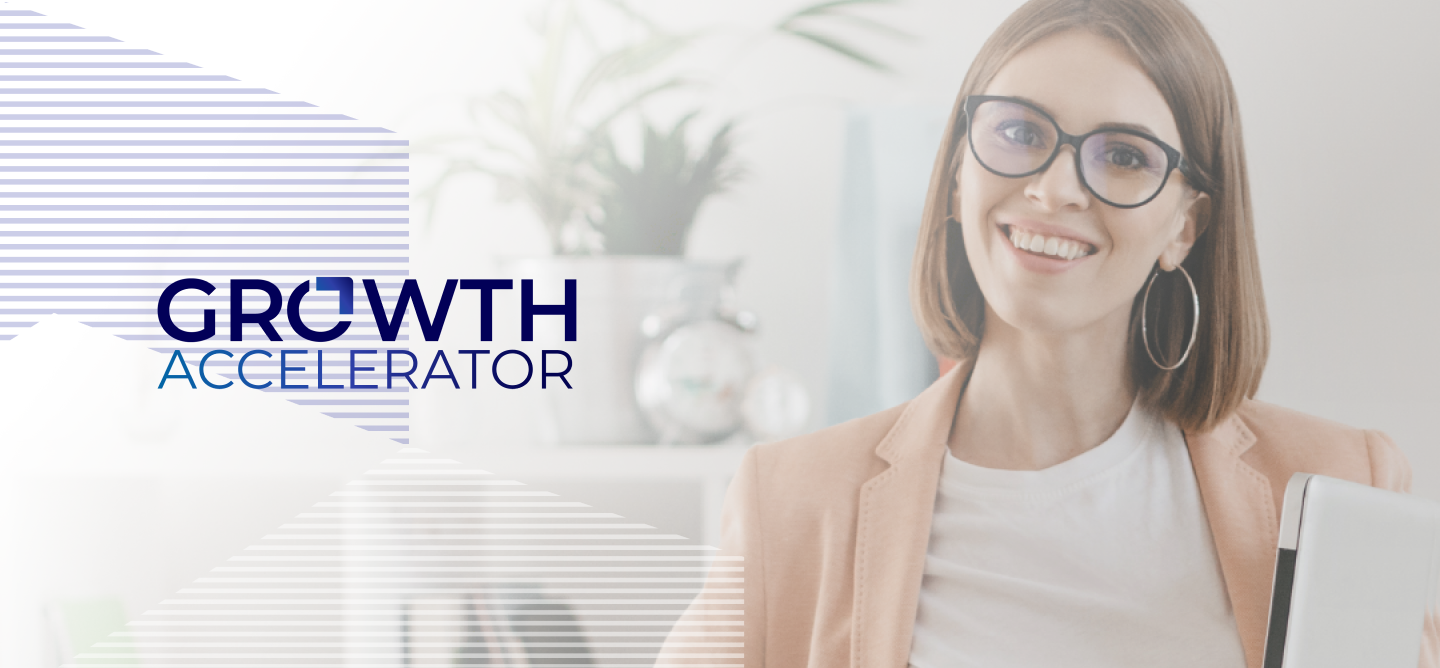
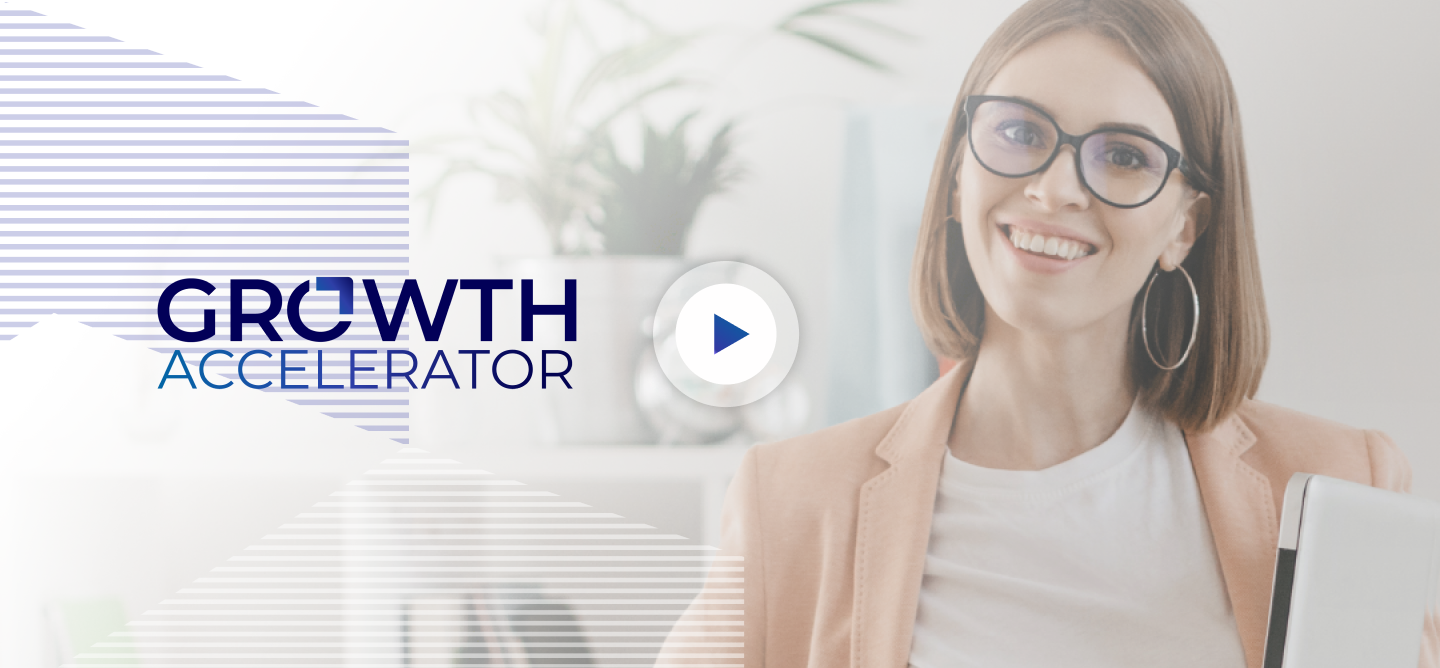
fix: adjust desing and components for courses sections

Changed region(s): [[0.4688, 0.4192, 0.5625, 0.5988]]

diff --git a/src/pages/MasterCoursePage/MasterCoursePage.tsx b/src/pages/MasterCoursePage/MasterCoursePage.tsx
@@ -3,13 +3,13 @@ import Header from '../../components/Header/Header';
 import Footer from '../../components/Footer/Footer';
 import WhatsappSupport from '../../components/WhatsappSupport/WhatsappSupport';
 import HeroSection from '../../components/HeroSection/HeroSection';
-import GrowthInfoSection from '../../components/GrowhtInfo/GrowthInfo';
 import GrowthOwnerSection from '../../components/GrowthOwnerSection/GrowthOwnerSection';
 import GrowthPathSection from '../../components/GrowthPathSection/GrowthPathSection';
-import { growthbanner, playbutton } from '../../utils/images';
+import { masterbanner, masterresp } from '../../utils/images';
 import { useLocation } from 'react-router-dom';
 import { Course } from '../../types/ApiDto';
 import InvestmentCard from '../../components/InvestmentCard/InvestmentCard';
+import MasterInfoSection from '../../components/MasterInfoSection/MasterInfoSection';
 
 const MasterCoursePage: React.FC = () => {
   const location = useLocation();
@@ -21,8 +21,12 @@ const MasterCoursePage: React.FC = () => {
   return (
     <div>
       <Header />
-      <HeroSection backgroundImage={growthbanner} playButton={playbutton} />
-      <GrowthInfoSection />
+      <HeroSection
+        desktopBackgroundImage={masterbanner}
+        mobileBackgroundImage={masterresp}
+        altText="Main Banner"
+      />
+      <MasterInfoSection />
       <GrowthOwnerSection />
       <GrowthPathSection />
       <InvestmentCard course={course} />

diff --git a/src/pages/GrowthCoursePage/GrowthCoursePage.tsx b/src/pages/GrowthCoursePage/GrowthCoursePage.tsx
@@ -1,10 +1,10 @@
 import React from 'react';
 import Header from '../../components/Header/Header';
 import Footer from '../../components/Footer/Footer';
-import { growthbanner, playbutton } from '../../utils/images';
+import { growthbanner, growthresp } from '../../utils/images';
 import WhatsappSupport from '../../components/WhatsappSupport/WhatsappSupport';
 import HeroSection from '../../components/HeroSection/HeroSection';
-import GrowthInfoSection from '../../components/GrowhtInfo/GrowthInfo';
+import GrowthInfoSection from '../../components/GrowthInfoSection/GrowthInfoSection';
 import GrowthOwnerSection from '../../components/GrowthOwnerSection/GrowthOwnerSection';
 import GrowthPathSection from '../../components/GrowthPathSection/GrowthPathSection';
 // import InvestmentCard from '../../components/InvestmentCard/InvestmentCard';
@@ -13,7 +13,11 @@ const GrowthCoursePage: React.FC = () => {
   return (
     <div>
       <Header />
-      <HeroSection backgroundImage={growthbanner} playButton={playbutton} />
+      <HeroSection
+        desktopBackgroundImage={growthbanner}
+        mobileBackgroundImage={growthresp}
+        altText="Main Banner"
+      />
       <GrowthInfoSection />
       <GrowthOwnerSection />
       <GrowthPathSection />

diff --git a/src/components/SectionInfo/SectionInfo.tsx b/src/components/SectionInfo/SectionInfo.tsx
@@ -1,0 +1,46 @@
+import React from 'react';
+import InfoCard from '../InfoCard/InfoCard';
+
+interface InfoItem {
+  icon: string;
+  title: string;
+  description: string;
+}
+
+interface InfoSectionProps {
+  title: string;
+  description: string;
+  infoItems: InfoItem[];
+}
+
+const SectionInfo: React.FC<InfoSectionProps> = ({
+  title,
+  description,
+  infoItems,
+}) => {
+  return (
+    <section className="py-24 bg-white">
+      <div className="container mx-auto px-4">
+        <h2 className="text-4xl font-bold text-secondaryPurple mb-4 text-center">
+          {title}
+        </h2>
+        <p
+          className="text-lg text-gray-700 mb-8 text-center py-24"
+          dangerouslySetInnerHTML={{ __html: description }}
+        />
+        <div className="grid grid-cols-1 md:grid-cols-3 gap-12">
+          {infoItems.map((item, index) => (
+            <InfoCard
+              key={index}
+              icon={item.icon}
+              title={item.title}
+              description={item.description}
+            />
+          ))}
+        </div>
+      </div>
+    </section>
+  );
+};
+
+export default SectionInfo;

diff --git a/src/components/HeroSection/HeroSection.tsx b/src/components/HeroSection/HeroSection.tsx
@@ -1,30 +1,28 @@
 import React from 'react';
 
 interface HeroSectionProps {
-  backgroundImage: string;
-  playButton: string;
+  desktopBackgroundImage: string;
+  mobileBackgroundImage: string;
+  altText: string;
 }
 
 const HeroSection: React.FC<HeroSectionProps> = ({
-  backgroundImage,
-  playButton,
+  desktopBackgroundImage,
+  mobileBackgroundImage,
+  altText,
 }) => {
   return (
     <div className="relative">
       <img
-        src={backgroundImage}
-        alt="Main"
-        className="w-full h-auto object-cover"
+        src={desktopBackgroundImage}
+        alt={altText}
+        className="hidden md:block w-full h-auto object-cover"
       />
-      <div className="absolute inset-0 flex items-center justify-center">
-        <div className="flex items-center">
-          <img
-            src={playButton}
-            alt="Play Button"
-            className="h-16 w-16 md:h-20 md:w-20"
-          />
-        </div>
-      </div>
+      <img
+        src={mobileBackgroundImage}
+        alt={altText}
+        className="block md:hidden w-full h-auto object-cover"
+      />
     </div>
   );
 };

diff --git a/src/components/GrowthInfoSection/GrowthInfoSection.tsx b/src/components/GrowthInfoSection/GrowthInfoSection.tsx
@@ -1,0 +1,21 @@
+import React from 'react';
+import { GrowthInfoItems } from '../../utils/growthinfo';
+import SectionInfo from '../SectionInfo/SectionInfo';
+
+const GrowthInfoSection: React.FC = () => {
+  const description = `
+    <strong>Growth Accelerator es un programa integral diseñado para empresarios y dueños de PyMEs en México que desean transformar sus negocios.</strong>
+    En solo seis meses, adquirirás habilidades y conocimientos que te permitirán llevar tu empresa al siguiente nivel,
+    mejorando la eficiencia, aumentando la productividad y asegurando un crecimiento sostenido.
+  `;
+
+  return (
+    <SectionInfo
+      title="¿Qué es Growth Accelerator?"
+      description={description}
+      infoItems={GrowthInfoItems}
+    />
+  );
+};
+
+export default GrowthInfoSection;

diff --git a/src/routes/routes.tsx b/src/routes/routes.tsx
@@ -3,8 +3,8 @@ import { BrowserRouter as Router, Route, Routes } from 'react-router-dom';
 import LandingPage from '../pages/LandingPage/LandingPage';
 import LoginPage from '../pages/LoginPage/LoginPage';
 import RegistrationFormPage from '../pages/RegistrationFormPage/RegistrationFormPage';
-import GrowthCoursePage from '../pages/GrowthPage/GrowthPage';
-import MasterCoursePage from '../pages/MasterPage/MasterPage';
+import GrowthCoursePage from '../pages/GrowthCoursePage/GrowthCoursePage';
+import MasterCoursePage from '../pages/MasterCoursePage/MasterCoursePage';
 import PaymentCashPage from '../pages/PaymentCashPage/PaymentCashPage';
 import FolioFormPage from '../pages/FolioFormPage/FolioFormPage';
 import CampusDashboardPage from '../pages/CampusDashboardPage/CampusDashboardPage';

diff --git a/src/components/MasterInfoSection/MasterInfoSection.tsx b/src/components/MasterInfoSection/MasterInfoSection.tsx
@@ -1,0 +1,19 @@
+import React from 'react';
+import SectionInfo from '../SectionInfo/SectionInfo';
+import { MasterInfoItems } from '../../utils/masterInfo';
+
+const MasterInfoSection: React.FC = () => {
+  const description = `
+    Master Management es un programa especializado que fortalece las habilidades de los gerentes de empresas mexicanas, enfocándose en <strong>competencias clave de liderazgo y gestión</strong>. En seis meses, estarás preparado para mejorar tu desempeño y productividad, promoviendo el crecimiento inmediato del equipo o área a tu cargo.
+  `;
+
+  return (
+    <SectionInfo
+      title="¿Qué es Master Management?"
+      description={description}
+      infoItems={MasterInfoItems}
+    />
+  );
+};
+
+export default MasterInfoSection;

diff --git a/src/utils/growthinfo.ts b/src/utils/growthinfo.ts
@@ -1,0 +1,22 @@
+import { monitoricon, calendaricon, notesicon } from './images';
+
+export const GrowthInfoItems = [
+  {
+    icon: monitoricon,
+    title: 'Modalidad:',
+    description:
+      'Híbrida\nCombinación de contenido en una plataforma con sesiones mensuales con un experto.',
+  },
+  {
+    icon: calendaricon,
+    title: 'Duración:',
+    description:
+      '6 meses\n(Por confirmar) A partir del 1 de septiembre de 2024.',
+  },
+  {
+    icon: notesicon,
+    title: 'Módulos:',
+    description:
+      '6\nEn donde conocerás cada mes, aspectos cruciales para la productividad y rentabilidad de tu empresa.',
+  },
+];

diff --git a/src/components/InfoCard/InfoCard.tsx b/src/components/InfoCard/InfoCard.tsx
@@ -1,0 +1,21 @@
+import React from 'react';
+
+interface InfoCardProps {
+  icon: string;
+  title: string;
+  description: string;
+}
+
+const InfoCard: React.FC<InfoCardProps> = ({ icon, title, description }) => {
+  return (
+    <div className="bg-white p-6 rounded-lg shadow-lg flex items-start">
+      <img src={icon} alt={title} className="w-12 h-12 mr-4 mt-12" />
+      <div className="text-left">
+        <h3 className="text-xl font-bold text-secondaryPurple mb-2">{title}</h3>
+        <p className="text-gray-700 whitespace-pre-line">{description}</p>
+      </div>
+    </div>
+  );
+};
+
+export default InfoCard;

diff --git a/src/utils/images.ts b/src/utils/images.ts
@@ -43,6 +43,9 @@ import coursemaster from '../assets/images/course-master.png';
 import bannermob from '../assets/images/banner-mob.png';
 import bannercourse from '../assets/images/banner-course.png';
 import bgcourses from '../assets/images/bg-courses.png';
+import growthresp from '../assets/images/growt-resp.png';
+import masterbanner from '../assets/images/master-banner.png';
+import masterresp from '../assets/images/master-resp.png';
 
 export {
   banner,
@@ -90,4 +93,7 @@ export {
   bannermob,
   bannercourse,
   bgcourses,
+  growthresp,
+  masterbanner,
+  masterresp,
 };

diff --git a/src/utils/masterInfo.ts b/src/utils/masterInfo.ts
@@ -1,0 +1,19 @@
+import { monitoricon, calendaricon, notesicon } from './images';
+
+export const MasterInfoItems = [
+  {
+    icon: monitoricon,
+    title: 'Modalidad:',
+    description: 'Aprende a tu ritmo \nAcceso 24/7 a una plataforma.',
+  },
+  {
+    icon: calendaricon,
+    title: 'Duración:',
+    description: '12 horas\nTiempo recomendado: 6 meses.',
+  },
+  {
+    icon: notesicon,
+    title: 'Módulos:',
+    description: '6\nPara la productividad y rentabilidad de tu empresa.',
+  },
+];
